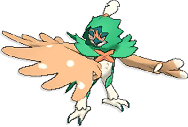
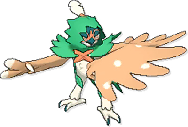
un .equals que faltaba y cambie un par de imagenes

diff --git a/src/Controlador/ControladorTablero.java b/src/Controlador/ControladorTablero.java
@@ -571,8 +571,8 @@ public class ControladorTablero implements ActionListener{
                                 if(this.esc.getMatrizEscenario()[posicion.get(0)][posicion.get(1)].isCaminable()==false){
                                     contadorMovimientos=contadorMovimientos;
                                 }else{
-                                    if(personaje.getBandoPersonaje() == "bueno"){
-                                        if(personaje.getRolPersonaje() == "Guerrero"){
+                                    if(personaje.getBandoPersonaje().equals("bueno")){
+                                        if(personaje.getRolPersonaje().equals("Guerrero")){
                                             this.vt.matrizVista[posicion.get(0)][posicion.get(1)].setText("G");
                                             this.esc.getMatrizEscenario()[posicion.get(0)][posicion.get(1)].setPersonaje(personaje);
                                             
